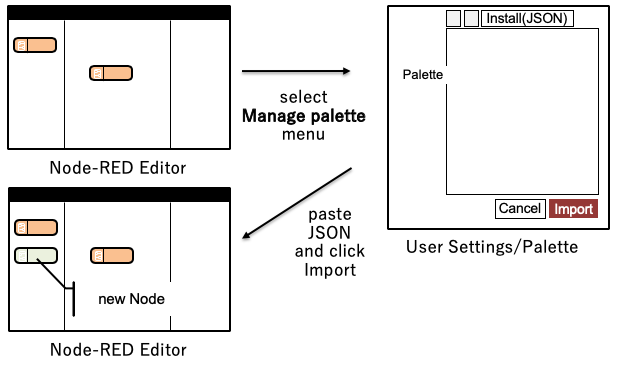
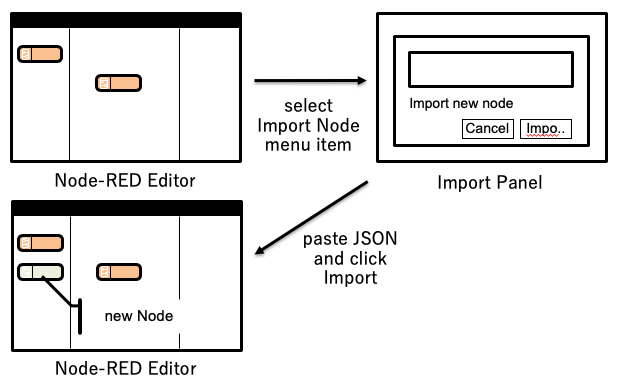
update design for exportable subflow

diff --git a/designs/exportable-subflow/README.md b/designs/exportable-subflow/README.md
@@ -2,18 +2,18 @@
 state: draft
 ---
 
-# Exportable Subflow
+# Exportable SUBFLOW
 
-This proposal covers how a Subflow can be exported from the editor for reuse elsewhere.
+This proposal covers how a SUBFLOW can be exported from the editor for reuse elsewhere.
 
 They key requirement is that once it is imported, the end user is not aware the node
-was implemented as a subflow - it appears as a regular node in their palette and
+was implemented as a SUBFLOW - it appears as a regular node in their palette and
 they cannot edit the internals.
 
 This design will cover how this could be handled in the editor UI.
 
-The mechanism for packaging a subflow as a redistributable node module will be
-covered by [Subflow Node Modules](../subflow-node-modules.md).
+The mechanism for packaging a SUBFLOW as a redistributable npm node module will be
+covered by [SUBFLOW Node Modules](../subflow-node-modules.md).
 
 This feature *must* also consider the wider enhancements to the Library UX that
 are in the roadmap. (*TODO: add a link to the design doc once added*).
@@ -24,28 +24,52 @@ are in the roadmap. (*TODO: add a link to the design doc once added*).
 
 ### Details
 
-#### Exporting Subflow as Node
+Node can be exported as JSON code (*SUBFLOW Module*) or converted to a Node (*SUBFLOW Node*). In this document, design for *SUBFLOW Module* is described.
 
-Node can be exported as JSON code or converted to a Node.
-
+#### Exporting SUBFLOW Module
 
 ![Subflow-export-UI](Subflow-export-UI.png)
 
-By clicking **Export** button on Subflow Setting Panel of Subflow template, Subflow Export Panel is shown.
+By clicking **Export SUBFLOW** button on SUBFLOW template setting panel, SUBFLOW export panel is shown.
 
-In this panel, new node information such as node name, version, etc. can be specified. There is **As JSON** check box on this panel.  If this is checked, JSON export panel is shown.  Otherwise, new node is installed on  editor palette.  
+In this panel, new node information such as node name, version, etc. can be specified. There is **Include All SUBFLOW** check box on this panel.  If this is checked, SUBFLOWs used within the exported SUBFLOW are recursively included in exported SUBFLOW Module.  If **Editable** check box on this panel is checked, SUBFLOW template can be edited on imported Node-RED editor.  Otherwise, the imported SUBLOW template is sealed. Thus, its internal flow or UI definition can not be edited.
 
-New node created from SUBFLOW is sealed.  Thus, its internal flow or UI definition can not be edited.
+#### Importing SUBFLOW Module
 
-#### Importing SUBFLOW Node
-
-Node represented as JSON data can be imported in Node-RED environment from palette management UI.
+Node represented as JSON data can be imported in Node-RED environment from import new node panel.
 
 ![Subflow-import-UI](Subflow-import-UI.png)
 
-There is **Install(JSON)** button on top of the panel.  After importing JSON, new node is installed on editor palette.
+#### Uninstalling SUBFLOW Module
 
+SUBFLOW Module are listed in *Manage Palette > Palette > Nodes* tab.  Similar to normal nodes, *SUBFLOW Module*s listed in this tab will have **remove** button.  If a SUBFLOW Module includes other SUBFLOW Modules and is sealed, contained SUBFLOW Modules are also deleted.
+
+#### SUBFLOW Module Format
+
+Exported SUBFLOW Module is represented by JSON array format which is similar to current flow representation.  
+
+Following is a list of properties exported SUBFLOW node in SUBFLOW Module may contain (+ means that property is optional):
+
+|      | name    | type   | description                        |
+| ---- | ------- | ------ | ---------------------------------- |
+| 1    | flow    | array  | array of contained nodes in SUBFLOW |
+| 2    | sealed+ | bool   | SUBFLOW template is not editable   |
+| 3    | hidden+ | bool   | SUBFLOW template is hidden         |
+| 4    | name    | string | name of SUBFLOW module             |
+| 5    | color+  | string | color of SUBFLOW                   |
+| 6    | version | string | version of SUBFLOW (format: x.y.z) |
+| 7    | author+ | string | author of SUBFLOW                  |
+| 8    | license+ | string | license of SUBFLOW                 |
+| 9    | keywords+ | array  | array of keywords of SUBFLOW       |
+| 10   | description+ | string | simple description of SUBFLOW      |
+
+Exported SUBFLOW Module can be **sealed** which means that internal of the SUBFLOW Module is hidden from users.  
+
+`flow` property is an array of nodes that are used in its SUBFLOW template.  *id* of nodes in SUBFLOW module must be *name*-*ID* where *ID* is a original *id* of the node.
+
+Extended properties are ignored if they are imported to older version of Node-RED.  
 
 ## History
 
   - 2019-02-27 - migrated from Design note wiki
+  - 2019-07-26 - updated according to design discussion on early July
